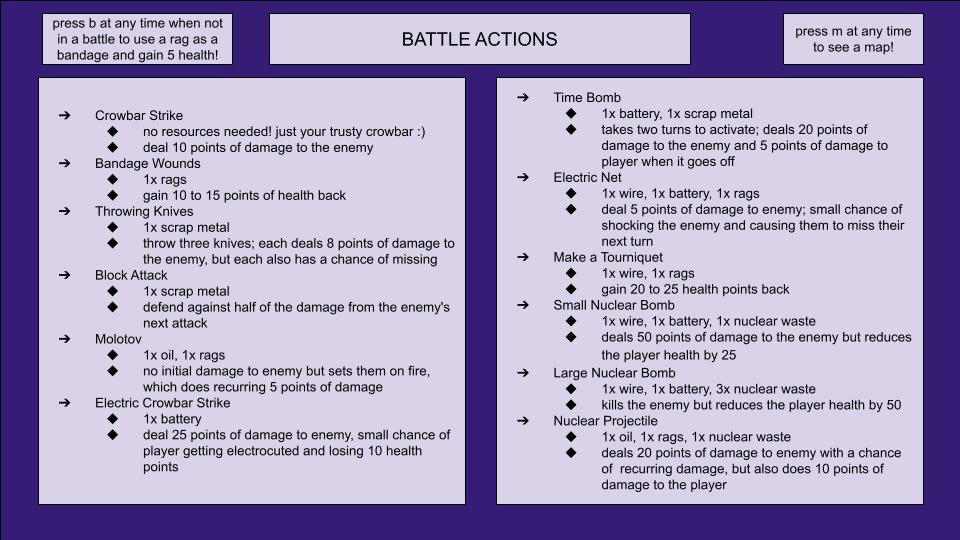
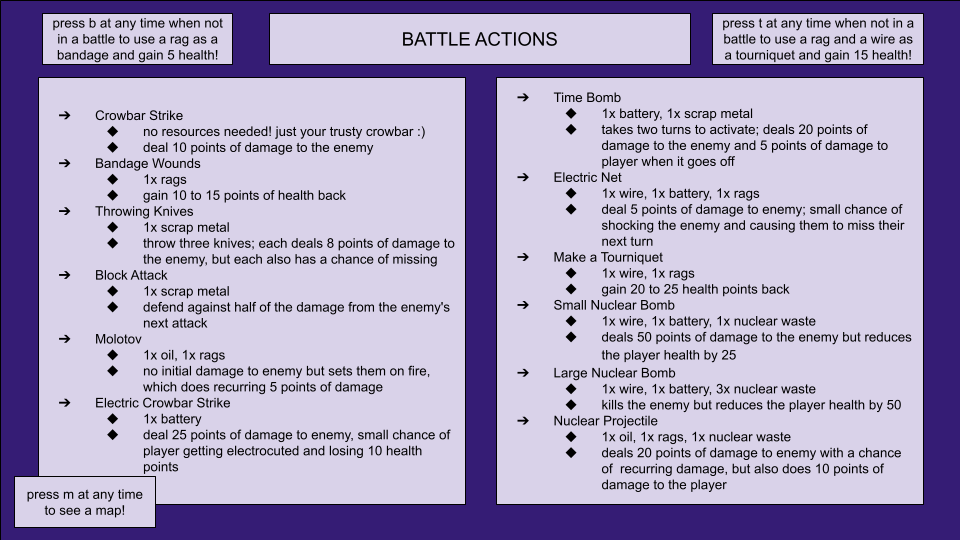
added tourniquet ability outside of battle

Changed region(s): [[0.7188, 0.0, 0.9688, 0.1185], [0.0, 0.8593, 0.1875, 0.9778]]

diff --git a/bin/bionic_apocalypse_main.cpp b/bin/bionic_apocalypse_main.cpp
@@ -580,6 +580,14 @@ int main(int argc, char *argv[]) {
                             player.changePlayerHealth(5);
                         }
                     }
+                    if (e.key.keysym.sym == SDLK_b) {
+                        // use tourniquet to heal
+                        if (player.getResource(1) > 0 && player.getResource(1) > 4) {
+                            player.setResource(1, -1);
+                            player.setResource(4, -1);
+                            player.changePlayerHealth(15);
+                        }
+                    }
                 }
 
                 // User releases a key
@@ -596,20 +604,20 @@ int main(int argc, char *argv[]) {
                     if (e.key.keysym.sym == SDLK_a) {
                         moveLeft = false;
                     }
-                    if (e.key.keysym.sym == SDLK_1) {
-                        bool can = player.useBandage();
-                        if (can == false) {
-                            canMakeMove = false;
-                            mes_time = SDL_GetTicks();
-                        }
-                    }
-                    if (e.key.keysym.sym == SDLK_8) {
-                        bool can = player.useTour();
-                        if (can == false) {
-                            canMakeMove = false;
-                            mes_time = SDL_GetTicks();
-                        }
-                    }
+                    // if (e.key.keysym.sym == SDLK_1) {
+                    //     bool can = player.useBandage();
+                    //     if (can == false) {
+                    //         canMakeMove = false;
+                    //         mes_time = SDL_GetTicks();
+                    //     }
+                    // }
+                    // if (e.key.keysym.sym == SDLK_8) {
+                    //     bool can = player.useTour();
+                    //     if (can == false) {
+                    //         canMakeMove = false;
+                    //         mes_time = SDL_GetTicks();
+                    //     }
+                    // }
                 }
             }
 
